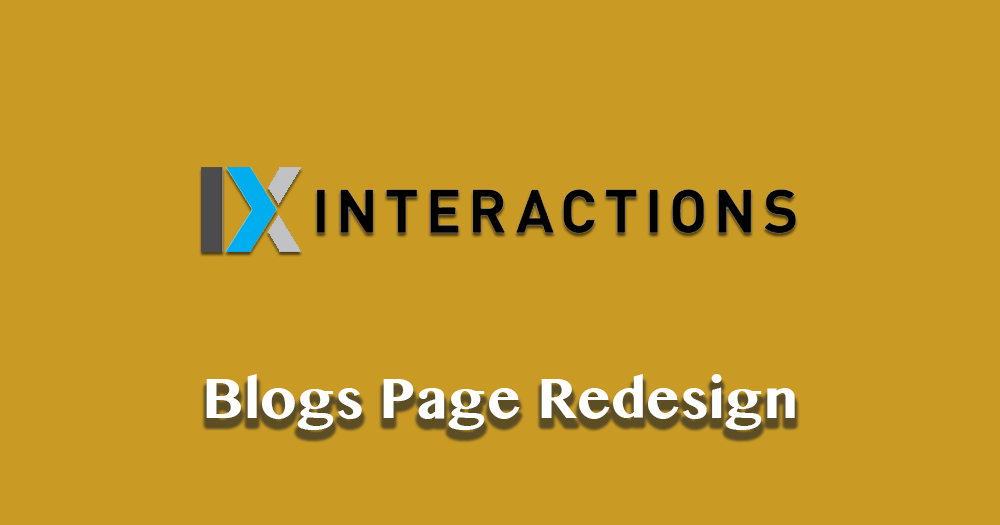
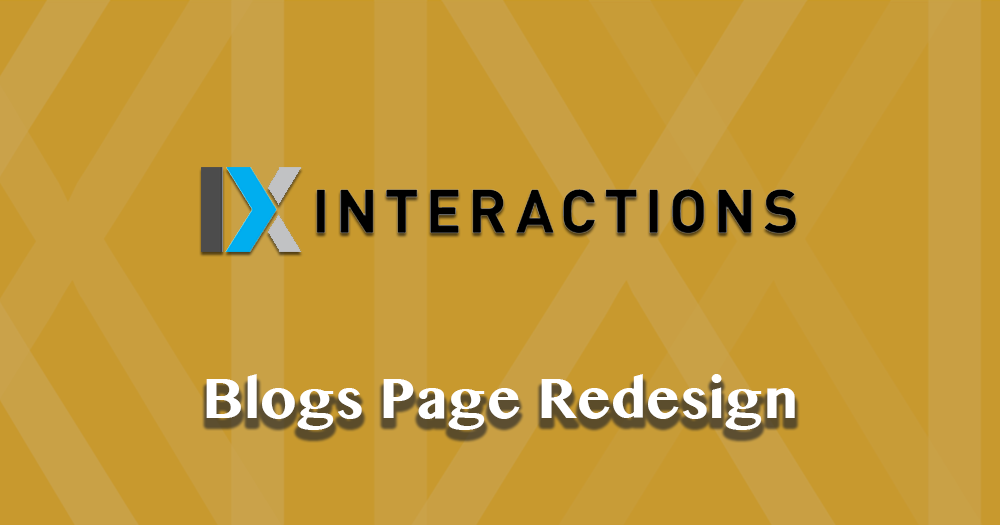
calendar and blog

diff --git a/blog.html b/blog.html
@@ -1,0 +1,113 @@
+<!DOCTYPE html>
+<html>
+
+<head>
+    <meta charset="utf-8">
+    <meta http-equiv="X-UA-Compatible" content="IE=edge,chrome=1">
+    <title>Google Calendar</title>
+    <link rel="stylesheet" href="stylesheets/project.css">
+
+    <!--opne in new window-->
+    <base target="_blank">
+    
+
+    <!--   import jquery-->
+    <script type="text/javascript" src="//code.jquery.com/jquery-1.11.0.min.js"></script>
+    <script type="text/javascript" src="//code.jquery.com/jquery-migrate-1.2.1.min.js"></script>
+
+
+</head>
+
+<body>
+    <!--mainbody-->
+    <div id="mainbody">
+
+        <!--Title-->
+        <div id="blogTopBack">
+            <div class="title">
+                <div class="title_text">
+
+                    <h1>Blogs Page Redesign</h1>
+
+                    <p>
+                        Interactions magazine web blogs list page redesign.
+                    </p>
+                </div>
+
+            </div>
+        </div>
+
+        <div class="content">
+            <h2>Background</h2>
+            <div class="sectionDetail">
+            <p>This website, <a href="interactions.acm.org">interactions.acm.org</a>, belongs to the Association for Computing Machinery (ACM), provides various resouces for both researchers and practitioners in human-computer interaction area. The goal of this project is to redesign the blogs list, make it more user-friendly.</p>
+            </div>
+            
+        </div>
+
+        <div class="content">
+            <h2>Analysis</h2>
+            
+            <div class="sectionDetail">
+                <p>Original Page  <a href="http://interactions.acm.org/blog">http://interactions.acm.org/blog</a></p>
+                <img src="images/blog/1original.png"
+                 alt="">
+            </div>
+            
+            <div class="sectionDetail">
+                <p>Prolblems:</p>
+                <img src="images/blog/2problems.png"
+                     alt="">
+            </div>
+            
+            
+        </div>
+
+        <div class="content">
+            <h2>Redesign</h2>
+            <div>
+               <h3 style=" width:800px; text-align:left;  margin:70px auto 15px auto;">Goals</h3>
+                <p style=" width:800px; text-align:left;">
+                    1. Providing most valuable and updated articles. 
+                    </br>
+                    2. Smooth browsing experience.
+            </br>
+                    3. Easy to find desired articles.
+                </p>
+            </div>
+            
+            <div class="sectionDetail">
+                <h3 class="imgTitle">New Design</h3>
+                <img src="images/blog/3newDesign.jpg"
+                     alt="">
+            </div>
+
+            <div class="sectionDetail">
+                <h3 class="imgTitle">What&#8217;s new</h3>
+                <img src="images/blog/4newElements.png"
+                     alt="">
+            </div>
+
+
+        </div>
+       
+        <div id="blogFooterBack" class="footerback">
+            <div class="footer">
+                <p>Designers : Me &nbsp;&nbsp;&nbsp;&nbsp;&nbsp;&nbsp; - &nbsp;&nbsp;&nbsp;&nbsp;&nbsp;&nbsp; Jan. 2015 &nbsp;(Web design)
+                </p>
+
+            </div>
+        </div>
+        
+        
+    </div><!--End of mainbody-->
+
+    <!--   javascript begin-->
+
+
+
+    <!--   end of javascript -->
+
+</body>
+
+</html>

diff --git a/stylesheets/project.css b/stylesheets/project.css
@@ -106,7 +106,7 @@ html body {
 }
 /* === top === */
 
-.topback {
+#calendarTopBack {
     position: relative;
     width: 100%;
     height: 400px;
@@ -116,6 +116,15 @@ html body {
     background-size: cover;
 }
 
+#blogTopBack{
+    position: relative;
+    width: 100%;
+    height: 400px;
+    background-color: #666666;
+    background-image: url(../images/blog/topBack.png);
+    background-repeat: no-repeat center top;
+    background-size: cover;
+    }
 
 
 .title {
@@ -193,6 +202,10 @@ html body {
     
     }
 
+.imgTitle {
+    margin: 30px auto;
+    }
+
 .greyNote {
     /*    width: 3000px;*/
     
@@ -224,9 +237,7 @@ html body {
     margin-top: 80px;
 }
 
-.intense {
-    cursor: url('../images/plus_cursor.png') 25 25, auto;
-}
+
 
 /* === footer === */
 
@@ -238,6 +249,10 @@ html body {
     margin-top: 200px;
     position: absolute;
 }
+#blogFooterBack {
+    background-color: rgb(251, 177,61);
+    }
+
 .footer {
     margin: 80px 10px 10px 10px;
     height: 80px;

diff --git a/calendar.html b/calendar.html
@@ -23,7 +23,7 @@
     <div id="mainbody">
 
         <!--Title-->
-        <div class="topback">
+        <div id="calendarTopBack">
             <div class="title">
                 <div class="title_text">
 
@@ -39,7 +39,9 @@
 
         <div class="content">
             <h2>Background</h2>
+            <div class="sectionDetail">
             <p>A fun class assignment that to redesign Google Calendar by only changing the size and position of elements. My redesign goal is to enlarge the vertical space so that even with small screen on labtop, user could see more content.</p>
+            </div>
         </div>
 
         <div class="content">
